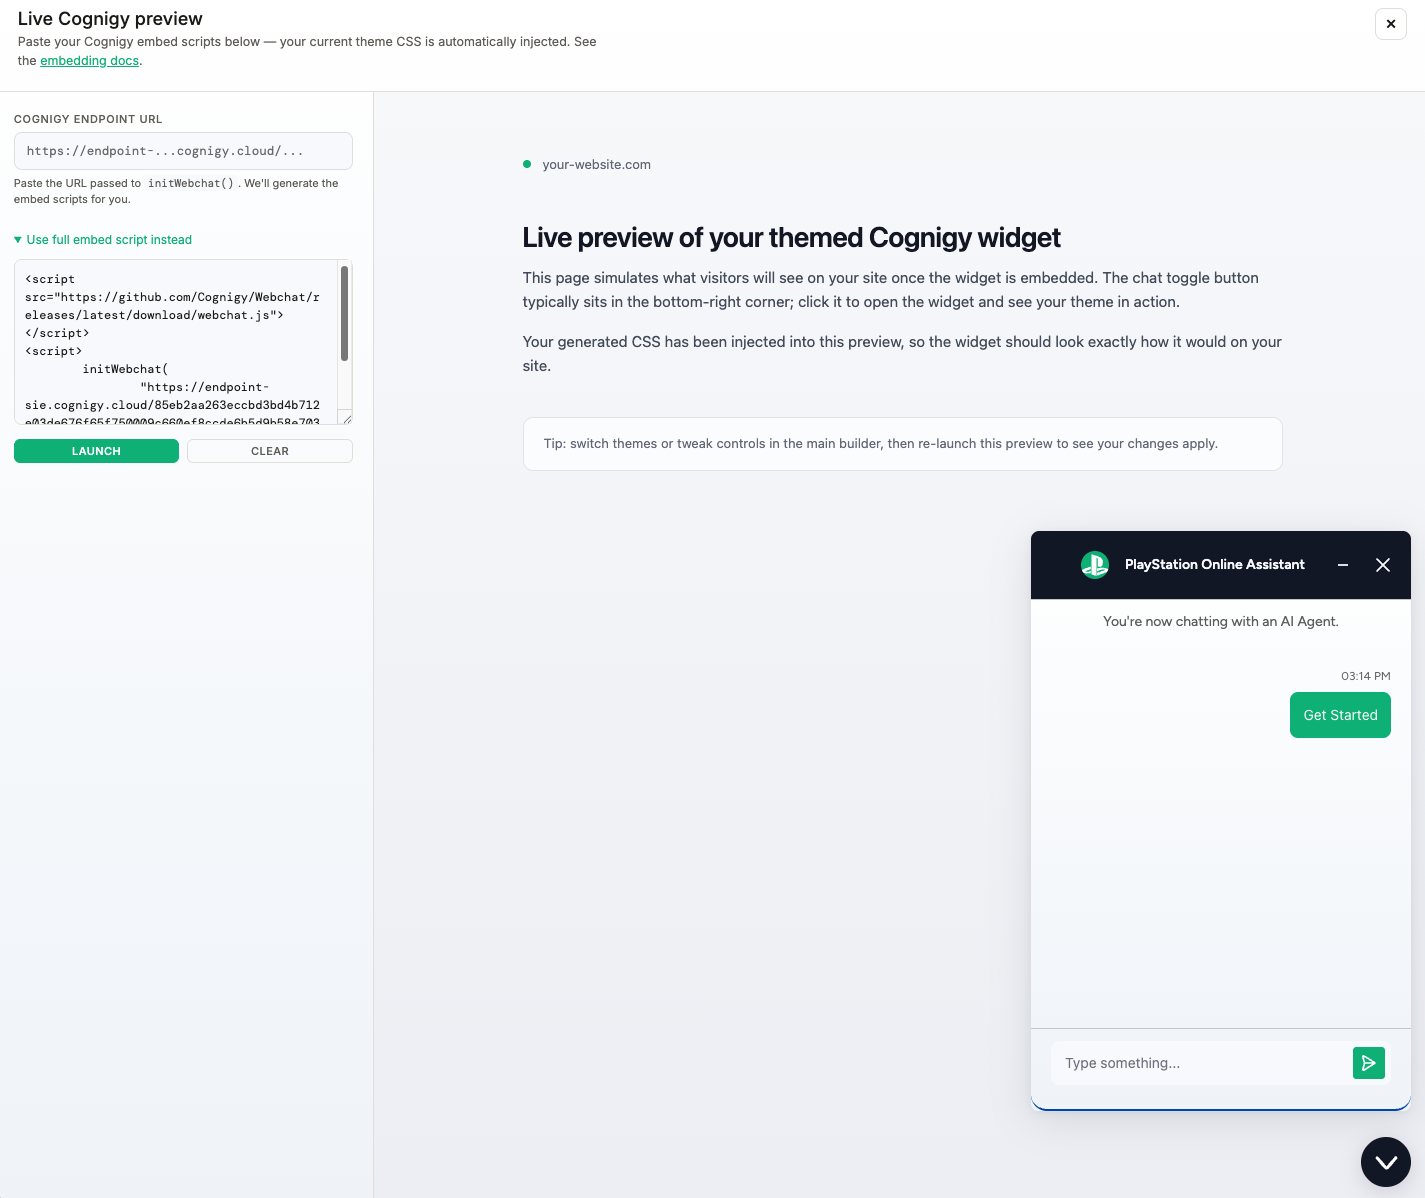
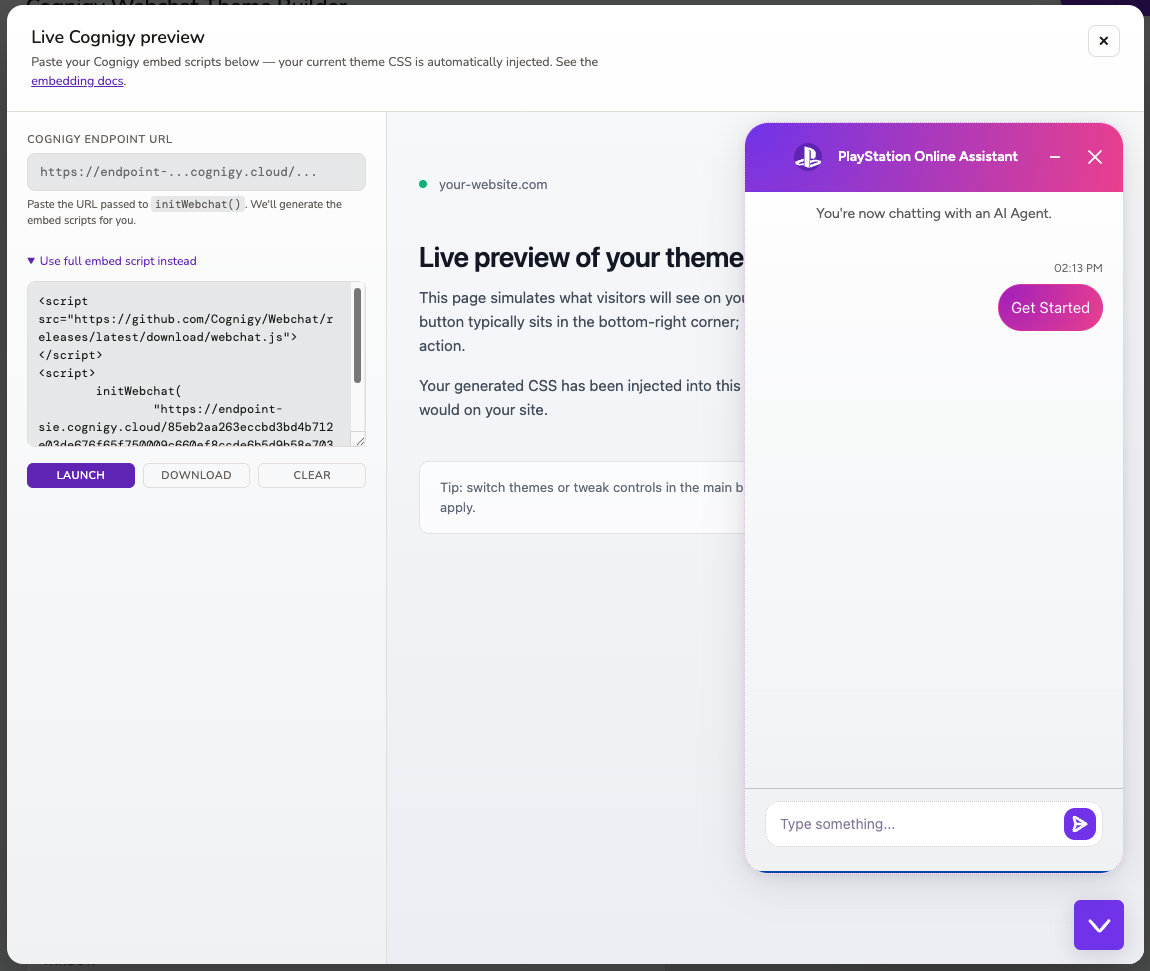
v1 release, updated readme, updated images

diff --git a/README.md b/README.md
@@ -1,10 +1,29 @@
 # Cognigy Webchat Theme Builder
 
-A single-page tool for visually customizing the look of a Cognigy webchat widget and generating a copy/paste-ready CSS snippet to drop into your site.
+![Version](https://img.shields.io/badge/version-1.0-blue)
+![Single file](https://img.shields.io/badge/single--file-yes-orange)
+![No build](https://img.shields.io/badge/build-none-success)
+![HTML5](https://img.shields.io/badge/HTML5-E34F26?logo=html5&logoColor=white)
+![Vanilla JS](https://img.shields.io/badge/JavaScript-vanilla-F7DF1E?logo=javascript&logoColor=black)
+![Cognigy v2 + v3](https://img.shields.io/badge/Cognigy-v2%20%2B%20v3-7C3AED)
+![PRs welcome](https://img.shields.io/badge/PRs-welcome-brightgreen)
 
-Edit colors, gradients, typography, shape, borders, and shadows with live controls. Preview the widget in real time, optionally test it against a real Cognigy endpoint in a sandboxed live preview, then copy out a Cognigy-compatible stylesheet that includes both light and dark mode rules.
+A single-page tool for visually customizing the look of a Cognigy webchat widget and exporting either a copy/paste-ready CSS snippet or a portable JSON theme.
 
-![Hero screenshot of the theme builder](images/hero-shot.png)
+Edit colors, gradients, typography, shape, borders, shadows, hover states, and header alignment with live controls. Preview the widget in real time, optionally test it against a real Cognigy endpoint in a sandboxed live preview, then export a Cognigy-compatible stylesheet (with both light and dark mode rules) — or download the entire preview as a self-contained HTML file you can share with clients.
+
+![Hero screenshot of the theme builder](images/hero.png)
+
+## What's in v1.0
+
+- **10 presets** including a new **Cognigy Default** that mimics the stock widget for clean starting points.
+- **Live CSS + JSON export** — switch tabs, copy either format, round-trip themes between teammates.
+- **Live Cognigy preview** — load your real endpoint into a sandboxed iframe with your theme applied. **Download** the result as a self-contained HTML file to share with clients.
+- **Light + dark mode editing** — opt-in dark palette, smart luminance inversion via "Copy light → dark".
+- **Simple mode** — four picks (primary, surface, bubble style, shape) derive ~20 styles.
+- **Organized control panel** — General, Window, Header, Chat Bubbles, Input Field, and Toggle subsections.
+- **Responsive sizing** — exported CSS clamps width/height via `min()` so the widget stays usable on mobile.
+- **v2 + v3 compatible** — selectors target both Cognigy webchat class generations in the same snippet.
 
 ## Quick start
 
@@ -18,25 +37,33 @@ Or serve it from any static host. That's the whole setup.
 
 ## How to use it
 
-1. **Pick a preset** from the chip row (Aurora, Bloom, Hibiscus, Trailhead, Minimal, Playful, Tech, Sunset, Ivory) or start from the default Aurora and tweak.
-2. **Pick a mode** — Simple (4 high-level choices that derive ~20 styles) or Advanced (every style individually controllable).
-3. **Adjust controls** — colors via picker, gradients via two-stop builder, radii and font sizes via slider, widget dimensions via slider, font and shadow strength via dropdown. The preview on the right and the generated CSS update instantly.
+1. **Pick a preset** from the chip row. Pick **Cognigy Default** at the end of the row for a neutral baseline that mimics Cognigy's stock widget appearance — useful when starting from scratch.
+2. **Pick a mode** — Simple (four high-level choices that derive ~20 styles) or Advanced (every style individually controllable).
+3. **Adjust controls** — colors via picker, gradients via two-stop builder, radii and font sizes via slider, widget dimensions via slider. The preview on the right and the export output update instantly.
 4. **Click any element in the preview** to jump straight to its style control.
 5. **(Optional) Add a dark mode variant** with one toggle. Need to convert your light theme to dark? Hit "↓ Copy light → dark" and it auto-darkens via luminance inversion in one click.
-6. **Pick an output mode** for the snippet: Light only, Dark only, or Both.
-7. **Copy** the snippet and paste it into your Cognigy webchat custom CSS field — or paste your endpoint URL into the **Preview live ↗** modal to see it on a real widget first.
+6. **Switch between CSS and JSON** in the Export panel. The CSS is what you paste into Cognigy; the JSON is what you'd save or share with a teammate.
+7. **Pick an output mode** for the CSS snippet (Light only, Dark only, or Both — only relevant when dark mode is enabled).
+8. **Copy** the snippet and paste it into your Cognigy webchat custom CSS field — or paste your endpoint URL into the **Preview live ↗** modal to see it on a real widget first, and optionally download a self-contained HTML demo to share.
 
 Your in-progress theme is autosaved to `localStorage`, so a refresh won't lose your work. **Reset** clears storage and reloads the Aurora preset.
 
+![Preset chips and My Themes panel](images/presets-and-my-themes.png)
+
 ## Features
 
-### Live snippet generator
+### Live export — CSS or JSON
 
-Every change updates the generated CSS in real time. Copy it out, paste it into Cognigy's custom CSS field, and you're done.
+Every change updates the export output in real time. Two tabs control what's emitted:
 
-![Generated CSS snippet](images/css-output.png)
+- **CSS tab** — the generated stylesheet to paste into Cognigy's custom CSS field. Light/Dark/Both filter applies here.
+- **JSON tab** — the entire theme as a portable JSON object (`{ version, name, light, dark? }`), ready to import elsewhere or hand to a teammate.
 
-The snippet emits **per-class rules** wrapped in the Cognigy specificity selectors — not CSS variable assignments — because the Cognigy webchat's internal stylesheet doesn't reference these styles by name. Example:
+![CSS export tab](images/share-css.png)
+
+![JSON export tab](images/share-json.png)
+
+The CSS snippet emits **per-class rules** wrapped in the Cognigy specificity selectors — not CSS variable assignments — because the Cognigy webchat's internal stylesheet doesn't reference these styles by name. Example:
 
 ```css
 [data-cognigy-webchat-root] [data-cognigy-webchat].webchat .webchat-header-bar {
@@ -60,19 +87,28 @@ Dark mode is opt-in. Toggle "Add dark mode variant" on, and a second palette bec
 
 The "↓ Copy light → dark" button takes your light palette and intelligently inverts luminance on backgrounds and text while preserving accent colors, giving you a usable dark theme in one click.
 
-![Light and dark mode editing](images/light-dark-theme.png)
+![Light and dark mode editing](images/light-dark.png)
 
-### Saved themes
+### Saved themes + JSON import/export
 
-Save any theme you've built into "My Themes" with a custom name. Re-load with one click, edit and overwrite, or import shared themes via JSON paste. All saved locally in `localStorage`.
+Save any theme you've built into "My Themes" with a custom name. Re-load with one click, edit and overwrite, or **import** shared themes via JSON paste. All saved locally in `localStorage`. Pair with the JSON tab in the Export panel to round-trip themes between machines or teammates without dragging CSS around.
 
-![My Themes panel](images/custom-themes.png)
+![My Themes panel](images/saving-theme.png)
 
 ### Live Cognigy preview
 
-Click **Preview live ↗** in the top-right to test your theme against a real Cognigy widget. Paste your endpoint URL (or a full `<script>` block for custom embeds) and the widget loads in a sandboxed iframe with your theme CSS automatically injected. The iframe simulates a host page background, so the widget overlays just as it would on your real site.
+Click **Preview live ↗** in the top-right to test your theme against a real Cognigy widget. The modal accepts either:
+
+- **An endpoint URL** (preferred) — paste the URL passed to `initWebchat()` and the tool builds the standard Cognigy embed for you.
+- **A full embed script** (advanced) — paste your two `<script>` tags directly, for custom embeds.
+
+The widget loads in a sandboxed iframe with your theme CSS automatically injected. The iframe simulates a host page background, so the widget overlays exactly as it would on your real site.
 
 ![Live preview overlay](images/live-preview.png)
+
+### Download a self-contained HTML preview
+
+Inside the Preview Live modal, click **Download** to save the entire iframe contents as a single HTML file (`cognigy-preview-<preset>.html`). The file is fully self-contained: theme CSS baked in, Cognigy embed scripts included, ready to share with a client by email or upload to a static host.
 
 ### Click-to-edit
 
@@ -82,10 +118,28 @@ Hover any element in the right-side preview — header, bubbles, input field, FA
 
 Don't want to fiddle with 30+ controls? Switch to **Simple** and pick four things: a primary color, a surface color, a bubble style (Light or Dark bot bubble), and a shape (Rounded / Balanced / Sharp). The tool derives the rest. Switch back to Advanced any time to refine — Simple-mode picks are non-destructive when toggling.
 
+### Organized control panel
+
+In Advanced mode, the Style controls are grouped into subsections so finding the right knob is easier:
+
+- **General** — accent, accent (hover), demo page background, font, shadow, border style
+- **Window** — chat background, chat window border, container radius
+- **Header** — background, text, divider line, alignment (left/center), button hover, header text size
+- **Chat Bubbles** — bot + user bubbles (bg, text, border, gradient), bubble radius, message font size
+- **Input Field** — input bg/text/border, input radius, input font size, send button + send button icon
+- **Toggle** — chat button (FAB), unread badge, button radius
+
+### Responsive widget sizing
+
+The exported CSS wraps `width` and `height` in `min(...)` against the viewport, so the chat window stays usable on mobile and small desktop windows. Your slider value applies whenever there's room; on narrow viewports the widget shrinks to fit with comfortable margins.
+
 ### Other features
 
 - **Gradient builder** on the chat background, header, and both bubbles. Two color stops, four direction options (↓ → ↘ ◉ radial), with a swap button.
-- **Border styling** — color per element (input, bot bubble, user bubble, chat window) plus a global style picker (None / Solid / Dashed / Dotted / Double).
+- **Border styling** — color per element (chat header bottom, input, bot bubble, user bubble, chat window) plus a global style picker (None / Solid / Dashed / Dotted / Double).
+- **Header alignment** — left (default) or center, matching Cognigy's stock centered layout when desired.
+- **Decoupled send button** — `Send button` and `Send button icon` tokens override accent independently, so the button can be transparent / gray (Cognigy Default style) while the avatar and FAB stay accent-colored.
+- **Optional hover bg** on the header minimize/close buttons — derived automatically from header text color in the preview, overridable per theme.
 - **Granular typography** — separate font-size sliders for header, message bubble, and input field.
 - **Shadow** — color picker + strength dropdown (None / Soft / Strong). Builds an `rgba()` shadow at the right opacity per strength.
 - **12 fonts loaded** — DM Sans, Inter, Roboto, Open Sans, Source Sans 3, Poppins, Nunito, System UI, Helvetica, Georgia, DM Mono, JetBrains Mono.
@@ -95,23 +149,29 @@ Don't want to fiddle with 30+ controls? Switch to **Simple** and pick four thing
 | Preset | Style |
 |---|---|
 | **Aurora** *(default)* | Discord-inspired blurple on light/dark slate. Clean tech-app feel. |
+| **Tech** | Emerald on slate. Database/dev-tool aesthetic. |
 | **Bloom** | Vibrant violet + pink gradient bubbles. Friendly, lifestyle vibe. |
 | **Hibiscus** | Coral red on white (light) or navy (dark). Editorial. |
 | **Trailhead** | Forest green + cream. Outdoor / utility brand feel. |
 | **Minimal** | Mono palette, no gradients, sharp radii. Restraint. |
-| **Playful** | Purple/pink with rounded everything. Bold and friendly. |
-| **Tech** | Emerald on slate. Database/dev-tool aesthetic. |
+| **Nebula** | Radial purple→magenta gradients, dotted borders. Cosmic, expressive. |
 | **Sunset** | Warm orange→pink gradient header. Lifestyle warmth. |
 | **Ivory** | Cream + ink + champagne. Editorial luxury. |
+| **Cognigy Default** | Mimics the stock Cognigy widget — neutral white surfaces, blue accent, gray send button. The factory baseline for customization. |
 
-All presets ship gradient-ready (off by default; flip on without re-picking colors).
+All presets ship gradient-ready (off by default; flip on without re-picking colors). The **Cognigy Default** chip sits at the far right of the row with a small visual separator — it's a factory-reset starting point rather than a styled theme.
+
+![Cognigy Default preset](images/cognigy-default-preset.png)
+
+![Nebula preset](images/nebula-preset.png)
 
 ## Project layout
 
 ```
 index.html      Everything: markup, styles, controls, generator, preview
-README.md       This file
-images/         README screenshots
+README.md       This file — for users / contributors
+CONFLUENCE.md   Internal documentation, written for non-developers
+images/         Screenshots
 ```
 
 Single file by design — small enough that a build step would add more friction than value.
@@ -122,6 +182,7 @@ Single file by design — small enough that a build step would add more friction
 - Two `<style>` elements (`#light-overrides` and `#dark-overrides`) are populated by JS as you edit, overriding the defaults via source order.
 - The snippet generator is independent of the preview: it maps each style to one or more `{ selector, property }` targets and emits concrete per-class rules with the Cognigy parent selectors prefixed.
 - `transform` callbacks let styles read sibling values (used by `borderStyle` to compose the final `border` shorthand, and by `shadowStrength` to compose `box-shadow` from `shadowColor`).
+- Subgroup rendering in the Style panel is driven by a `TOKEN_SUBGROUPS` map next to `renderControls` — tokens don't carry subgroup metadata, keeping the data model clean.
 
 ## Customizing further
 
@@ -137,7 +198,7 @@ myNewItem: {
 },
 ```
 
-Then add a default value to each preset in `PRESETS`. The control appears in the panel automatically.
+Then add a default value to each preset in `PRESETS`. If the control belongs to a specific subgroup (Header, Chat Bubbles, etc.), also add an entry to `TOKEN_SUBGROUPS` in the renderControls section. The control appears in the panel automatically.
 
 ## Related Cognigy tools
 
@@ -145,3 +206,36 @@ If you're building on the Cognigy stack, two other tools you might want to check
 
 - **[CognigyODataSuite](https://github.com/danieltucker/CognigyODataSuite)** — OData query builder and inspector for working with Cognigy's data layer.
 - **[CognigyCodeSandbox](https://github.com/danieltucker/CognigyCodeSandbox)** — Sandbox for prototyping Cognigy code-node JavaScript outside the editor.
+
+## Recommended GitHub repo topics
+
+Add these in the GitHub UI (**About → ⚙ → Topics**) so the repo surfaces in relevant searches:
+
+```
+cognigy
+cognigy-webchat
+webchat
+chatbot
+conversational-ai
+theme-builder
+css-generator
+visual-editor
+live-preview
+no-build
+single-file
+vanilla-js
+html5
+theming
+ui-customization
+```
+
+## Releases
+
+Tag the current build as v1.0:
+
+```sh
+git tag -a v1.0 -m "v1.0 — initial public release"
+git push origin v1.0
+```
+
+Then create a release on GitHub (**Releases → Draft new release → pick v1.0**) and paste the "What's in v1.0" bullets above as the release notes.
